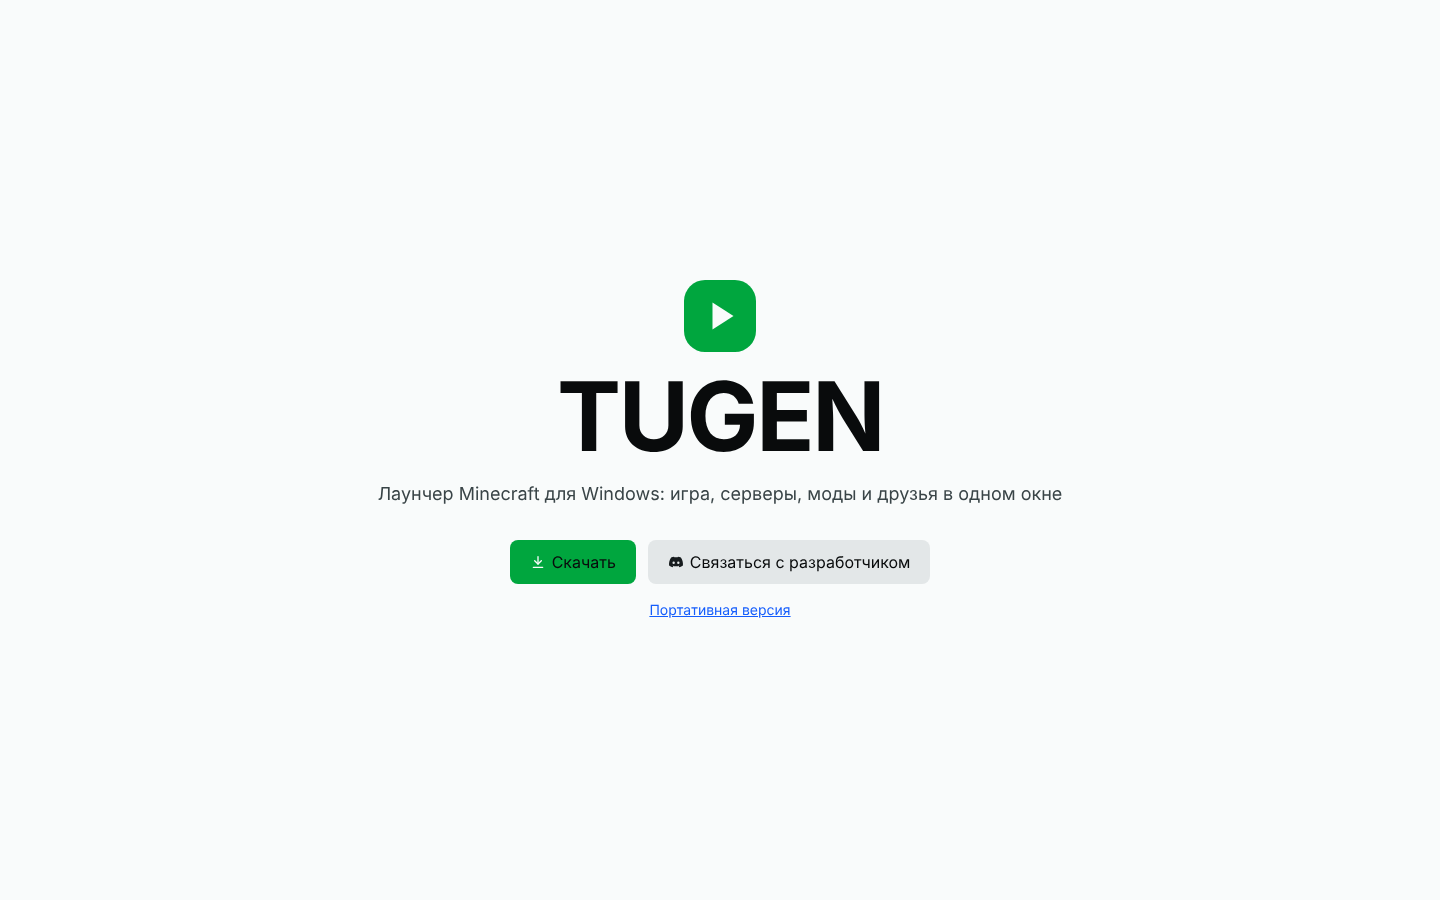
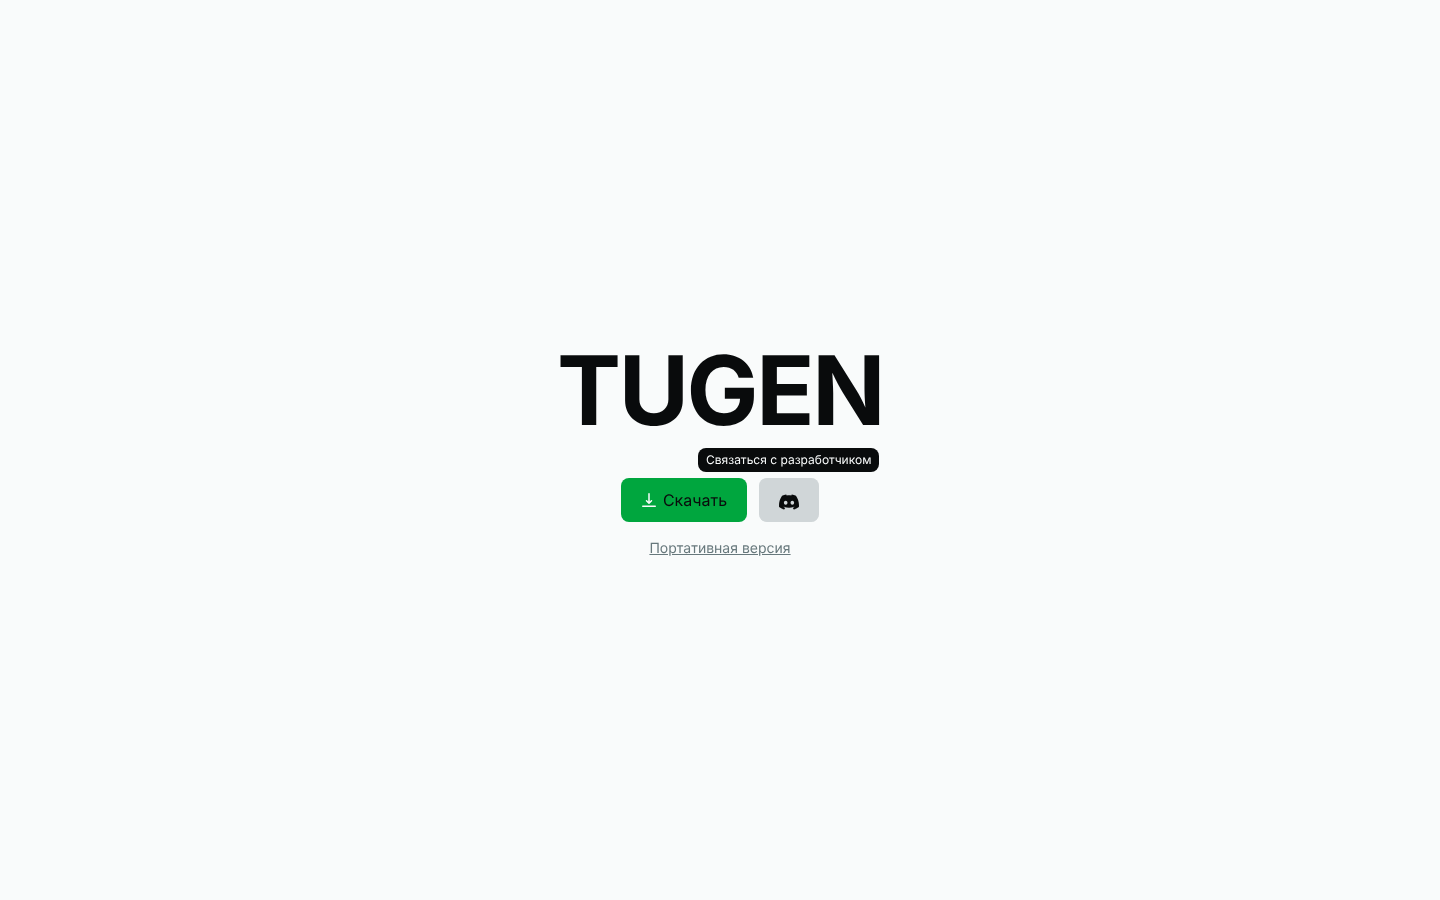
Лендинг: только имя, значок Discord с подсказкой, значки Gravity UI
Убраны знак и подпись над кнопками. Связь с разработчиком — кнопка со значком
Discord той же высоты, что «Скачать», подпись — во всплывающей подсказке.
«Портативная версия» — серая. Значки страницы и админки — из @gravity-ui/icons,
как в лаунчере; Discord, которого в наборе нет, — знак Clyde, как в лаунчере.

Claude-Session: https://claude.ai/code/session_01UJhgnkJyG1jV4CZejhp7Ti

Changed region(s): [[0.25, 0.3111, 0.75, 0.6844]]

diff --git a/app/src/landing.tsx b/app/src/landing.tsx
@@ -7,12 +7,12 @@ import {
   View,
   useWindowDimensions,
 } from 'react-native';
-import { Button, Divider, PopupHost, Text } from '@tugen/uikit';
-import { DiscordIcon, DownloadIcon, LogoMark } from './icons';
+import { Button, Divider, PopupHost, Text, Tip } from '@tugen/uikit';
+import { DiscordIcon, DownloadIcon } from './icons';
 import { RoadmapSection } from './roadmap';
 
-// Лендинг TUGEN: в центре первого экрана — имя, под ним «Скачать» и связь с разработчиком
-// в одном ряду и ссылка на портативную версию; ниже — роадмап
+// Лендинг TUGEN: в центре первого экрана — имя, под ним «Скачать» и значок Discord для связи
+// с разработчиком в одном ряду и серая ссылка на портативную версию; ниже — роадмап
 
 const RELEASES = 'https://github.com/Epic-Group12345/epic.launcher-releases';
 // Файлы последнего полного релиза: имена пишет CI лаунчера (docs/releases.md)
@@ -32,66 +32,52 @@ export const Landing: React.FC = () => {
     <View className="flex-1 bg-mist-50 dark:bg-mist-950">
       <ScrollView contentContainerClassName="items-center px-5">
         <View
-          className="w-full max-w-6xl items-center justify-center gap-8 py-16"
+          className="w-full max-w-6xl items-center justify-center gap-10 py-16"
           // Первый экран — на всю высоту окна: роадмап начинается ниже сгиба
           style={{ minHeight: height }}
         >
-          <View className="items-center gap-4">
-            <LogoMark size={wide ? 72 : 56} />
-            {/* Text kit ставит размер из своей шкалы (до 3xl): крупное имя — свой Text */}
-            <RNText
-              role="heading"
-              className={`font-bold tracking-tight text-mist-950 dark:text-mist-50 ${
-                wide ? 'text-8xl' : 'text-6xl'
-              }`}
-            >
-              TUGEN
-            </RNText>
-            <Text size="lg" tone="secondary" className="text-center">
-              Лаунчер Minecraft для Windows: игра, серверы, моды и друзья в
-              одном окне
-            </Text>
-          </View>
-          <View
-            className={
-              wide ? 'items-center gap-4' : 'w-full items-center gap-4'
-            }
+          {/* Text kit ставит размер из своей шкалы (до 3xl): крупное имя — свой Text */}
+          <RNText
+            role="heading"
+            className={`font-bold tracking-tight text-mist-950 dark:text-mist-50 ${
+              wide ? 'text-8xl' : 'text-6xl'
+            }`}
           >
-            {/* «Скачать» и связь с разработчиком — всегда в одном ряду и одной высоты (обе lg).
-                На телефоне длинная подпись не влезает в ряд — там кнопки делят ширину поровну */}
-            <View
-              className={
-                wide
-                  ? 'flex-row items-center justify-center gap-3'
-                  : 'w-full flex-row items-center gap-3'
-              }
-            >
+            TUGEN
+          </RNText>
+          <View className="items-center gap-4">
+            {/* «Скачать» и связь с разработчиком — в одном ряду и одной высоты (обе lg). У связи —
+                только значок Discord, подпись — во всплывающей подсказке */}
+            <View className="flex-row items-center justify-center gap-3">
               <Button
                 variant="play"
                 size="lg"
                 icon={DownloadIcon}
-                grow={!wide}
                 onPress={open(DOWNLOAD)}
               >
                 Скачать
               </Button>
-              <Button
-                variant="secondary"
-                size="lg"
-                icon={DiscordIcon}
-                grow={!wide}
-                onPress={open(DEVELOPER)}
-                accessibilityLabel="Связаться с разработчиком в Discord"
-              >
-                {wide ? 'Связаться с разработчиком' : 'Discord'}
-              </Button>
+              <Tip label="Связаться с разработчиком">
+                {/* Значок — содержимым, а не icon: без подписи кнопка с icon ниже «Скачать».
+                    Невидимый пробел нулевой ширины даёт строке высоту текста, как у соседней; inline —
+                    потому что preflight Tailwind делает svg блоком */}
+                <Button
+                  variant="secondary"
+                  size="lg"
+                  onPress={open(DEVELOPER)}
+                  accessibilityLabel="Связаться с разработчиком в Discord"
+                >
+                  {'\u200B'}
+                  <DiscordIcon size={20} className="inline align-middle" />
+                </Button>
+              </Tip>
             </View>
             <Pressable
               role="link"
               onPress={open(PORTABLE)}
               accessibilityLabel="Скачать портативную версию"
             >
-              <Text tone="info" className="underline">
+              <Text tone="muted" className="underline">
                 Портативная версия
               </Text>
             </Pressable>

diff --git a/app/src/icons.tsx b/app/src/icons.tsx
@@ -1,74 +1,38 @@
 import React from 'react';
+import {
+  ArrowDownToLine,
+  ChevronDown,
+  ChevronLeft,
+  ChevronRight,
+  ChevronUp,
+  Plus,
+  TrashBin,
+} from '@gravity-ui/icons';
 
-// Значки страницы: SVG в DOM напрямую — react-native-svg вебу не нужен. Контур рисуется
+// Значки — набор Gravity UI, как в лаунчере (components/icons). Компоненты Gravity рисуют
 // currentColor, поэтому цвет задаёт класс text-*, который передаёт элемент kit (IconComponent)
 
 export type Glyph = React.FC<{ size?: number; className?: string }>;
 
-const glyph =
-  (paths: React.ReactNode): Glyph =>
+type GravityIcon = React.FC<React.SVGProps<SVGSVGElement>>;
+
+const gravity =
+  (Icon: GravityIcon): Glyph =>
   ({ size = 16, className }) =>
-    (
-      <svg
-        width={size}
-        height={size}
-        viewBox="0 0 24 24"
-        fill="none"
-        stroke="currentColor"
-        strokeWidth={2}
-        strokeLinecap="round"
-        strokeLinejoin="round"
-        className={className}
-        aria-hidden
-      >
-        {paths}
-      </svg>
-    );
+    <Icon width={size} height={size} className={className} aria-hidden />;
 
-export const PlayIcon = glyph(
-  <path d="M7 4.5v15l12-7.5z" fill="currentColor" />,
-);
+export const DownloadIcon = gravity(ArrowDownToLine);
+export const PlusIcon = gravity(Plus);
+export const TrashIcon = gravity(TrashBin);
+export const ArrowLeftIcon = gravity(ChevronLeft);
+export const ArrowRightIcon = gravity(ChevronRight);
+export const ArrowUpIcon = gravity(ChevronUp);
+export const ArrowDownIcon = gravity(ChevronDown);
 
-export const DownloadIcon = glyph(
-  <>
-    <path d="M12 4v11" />
-    <path d="m7 10 5 5 5-5" />
-    <path d="M5 20h14" />
-  </>,
-);
-
-export const ServersIcon = glyph(
-  <>
-    <rect x="3" y="4" width="18" height="7" rx="2" />
-    <rect x="3" y="13" width="18" height="7" rx="2" />
-    <path d="M7 7.5h.01M7 16.5h.01" />
-  </>,
-);
-
-export const ModsIcon = glyph(
-  <>
-    <path d="m12 3 8 4.5v9L12 21l-8-4.5v-9z" />
-    <path d="m4 7.5 8 4.5 8-4.5M12 12v9" />
-  </>,
-);
-
-export const FriendsIcon = glyph(
-  <>
-    <circle cx="9" cy="8" r="3.5" />
-    <path d="M2.5 20a6.5 6.5 0 0 1 13 0" />
-    <path d="M16 4.6a3.5 3.5 0 0 1 0 6.8M18 14a6.5 6.5 0 0 1 3.5 6" />
-  </>,
-);
-
-/** Знак TUGEN: зелёный квадрат «Играть» — цвет запуска игры из DESIGN.md */
-export const LogoMark: React.FC<{ size?: number }> = ({ size = 24 }) => (
-  <svg width={size} height={size} viewBox="0 0 24 24" aria-hidden>
-    <rect width="24" height="24" rx="7" className="fill-green-600" />
-    <path d="M9.5 7.5v9l7-4.5z" className="fill-mist-50" />
-  </svg>
-);
-
-/** Discord — связь с разработчиком: залитый силуэт, чтобы значок читался и в 16 px */
+/**
+ * Discord — в Gravity UI его нет: знак Clyde, как DISCORD_LOGO лаунчера
+ * (components/social/brands.ts), но одним цветом currentColor
+ */
 export const DiscordIcon: Glyph = ({ size = 16, className }) => (
   <svg
     width={size}
@@ -79,20 +43,7 @@ export const DiscordIcon: Glyph = ({ size = 16, className }) => (
   >
     <path
       fill="currentColor"
-      fillRule="evenodd"
-      d="M19.3 5.3A17 17 0 0 0 15 4l-.5 1a15.5 15.5 0 0 0-5 0L9 4a17 17 0 0 0-4.3 1.3C2 9.4 1.3 13.4 1.6 17.3A17 17 0 0 0 6.9 20l1.1-1.8a11 11 0 0 1-1.7-.8l.4-.3a12.2 12.2 0 0 0 10.6 0l.4.3a11 11 0 0 1-1.7.8l1.1 1.8a17 17 0 0 0 5.3-2.7c.4-4.5-.7-8.5-3.1-12zM8.5 11.1a1.8 1.9 0 1 0 0 3.8 1.8 1.9 0 1 0 0-3.8zm7 0a1.8 1.9 0 1 0 0 3.8 1.8 1.9 0 1 0 0-3.8z"
+      d="M20.317 4.3698a19.7913 19.7913 0 00-4.8851-1.5152.0741.0741 0 00-.0785.0371c-.211.3753-.4447.8648-.6083 1.2495-1.8447-.2762-3.68-.2762-5.4868 0-.1636-.3933-.4058-.8742-.6177-1.2495a.077.077 0 00-.0785-.037 19.7363 19.7363 0 00-4.8852 1.515.0699.0699 0 00-.0321.0277C.5334 9.0458-.319 13.5799.0992 18.0578a.0824.0824 0 00.0312.0561c2.0528 1.5076 4.0413 2.4228 5.9929 3.0294a.0777.0777 0 00.0842-.0276c.4616-.6304.8731-1.2952 1.226-1.9942a.076.076 0 00-.0416-.1057c-.6528-.2476-1.2743-.5495-1.8722-.8923a.077.077 0 01-.0076-.1277c.1258-.0943.2517-.1923.3718-.2914a.0743.0743 0 01.0776-.0105c3.9278 1.7933 8.18 1.7933 12.0614 0a.0739.0739 0 01.0785.0095c.1202.099.246.1981.3728.2924a.077.077 0 01-.0066.1276 12.2986 12.2986 0 01-1.873.8914.0766.0766 0 00-.0407.1067c.3604.698.7719 1.3628 1.225 1.9932a.076.076 0 00.0842.0286c1.961-.6067 3.9495-1.5219 6.0023-3.0294a.077.077 0 00.0313-.0552c.5004-5.177-.8382-9.6739-3.5485-13.6604a.061.061 0 00-.0312-.0286zM8.02 15.3312c-1.1825 0-2.1569-1.0857-2.1569-2.419 0-1.3332.9555-2.4189 2.157-2.4189 1.2108 0 2.1757 1.0952 2.1568 2.419 0 1.3332-.9555 2.4189-2.1569 2.4189zm7.9748 0c-1.1825 0-2.1569-1.0857-2.1569-2.419 0-1.3332.9554-2.4189 2.1569-2.4189 1.2108 0 2.1757 1.0952 2.1568 2.419 0 1.3332-.946 2.4189-2.1568 2.4189Z"
     />
   </svg>
 );
-
-export const PlusIcon = glyph(<path d="M12 5v14M5 12h14" />);
-export const TrashIcon = glyph(
-  <>
-    <path d="M4 7h16M9 7V4.5h6V7" />
-    <path d="M6.5 7l1 12.5h9l1-12.5" />
-  </>,
-);
-export const ArrowLeftIcon = glyph(<path d="M15 5l-7 7 7 7" />);
-export const ArrowRightIcon = glyph(<path d="M9 5l7 7-7 7" />);
-export const ArrowUpIcon = glyph(<path d="M5 15l7-7 7 7" />);
-export const ArrowDownIcon = glyph(<path d="M5 9l7 7 7-7" />);
